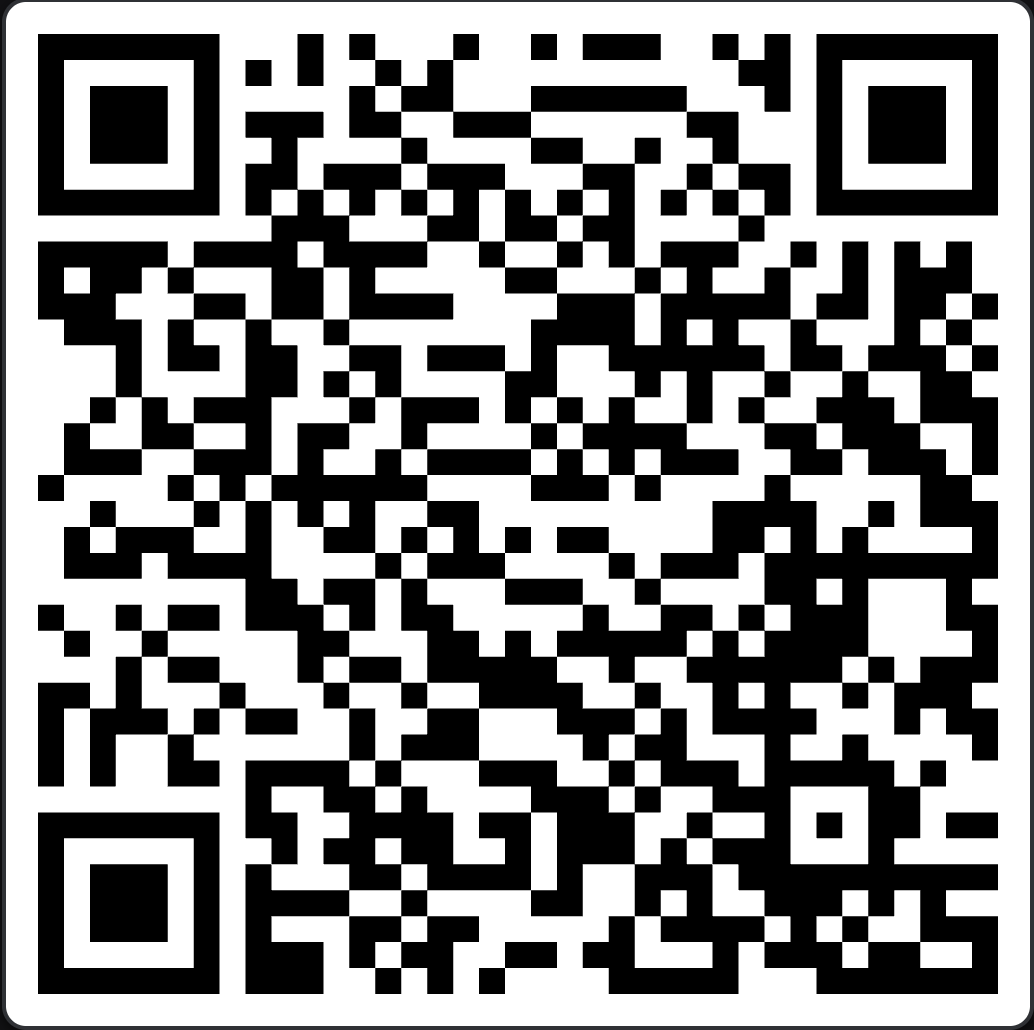
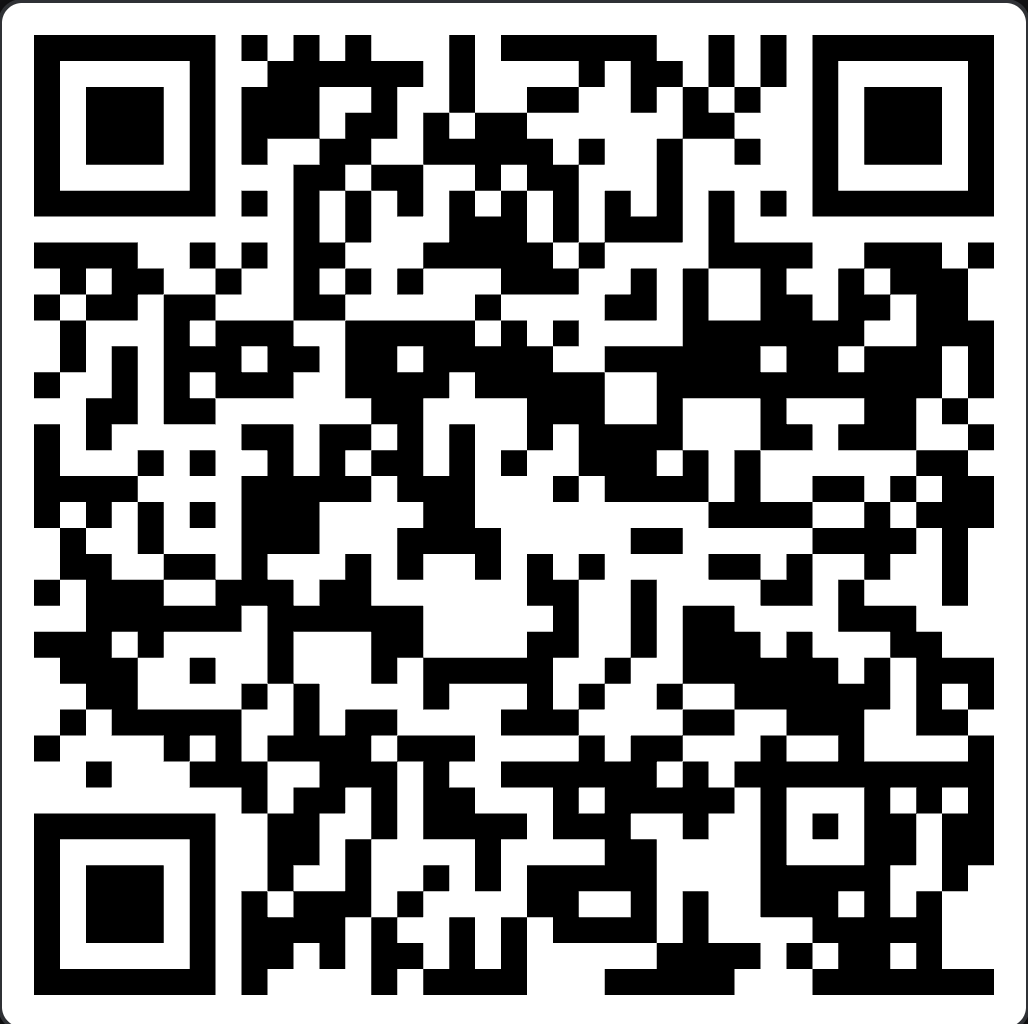
update assets

diff --git a/README.md b/README.md
@@ -6,7 +6,7 @@ A free and open-source chess game for mobile devices built with React Native and
 
 ## Download the App
 
-Download the latest version: [LibreChess Mobile v1.0.0](https://expo.dev/accounts/vynci/projects/librechess-mobile/builds/2f56ea4d-24a0-4732-8c2f-941730b8f26f)
+Download the latest version: [LibreChess Mobile v1.0.0](https://expo.dev/accounts/vynci/projects/librechess-mobile/builds/aeb3a1d2-b719-4772-ab55-8c1c727313bd)
 
 <div align="center">
   <img src="assets/download-apk.png" alt="Download QR Code" width="200"/>
@@ -20,7 +20,6 @@ Download the latest version: [LibreChess Mobile v1.0.0](https://expo.dev/account
 - Clean, modern UI with smooth animations
 - Support for both iOS and Android devices
 - Haptic feedback for enhanced user experience
-- Dark and light mode support
 
 ### Coming Soon
 
@@ -32,11 +31,9 @@ Download the latest version: [LibreChess Mobile v1.0.0](https://expo.dev/account
 
 ### Prerequisites
 
-- Node.js (v16 or higher)
+- Node.js (v18 or higher)
 - npm or yarn
 - Expo CLI
-- For iOS development: macOS with Xcode
-- For Android development: Android Studio
 
 ### Installation
 
@@ -65,19 +62,6 @@ After starting the development server, you can run the app on:
 - **iOS Simulator**: Press `i` in the terminal or scan the QR code with the Expo Go app
 - **Android Emulator**: Press `a` in the terminal or scan the QR code with the Expo Go app
 - **Physical Device**: Install [Expo Go](https://expo.dev/go) and scan the QR code
-
-Alternatively, use these commands:
-
-```bash
-# Run on iOS
-npm run ios
-
-# Run on Android
-npm run android
-
-# Run on web
-npm run web
-```
 
 ## Tech Stack
 
